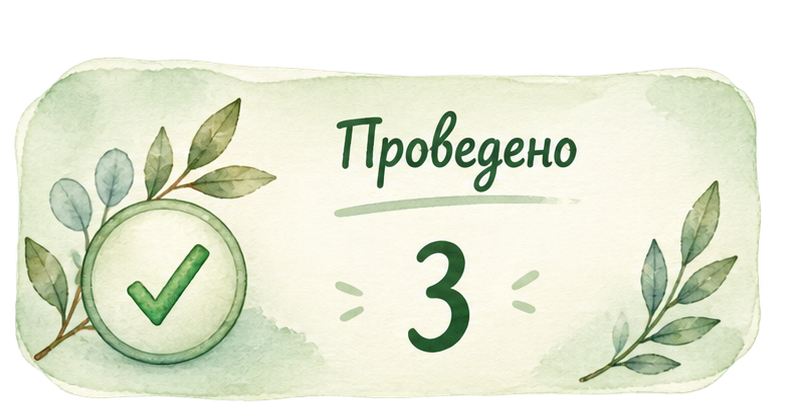
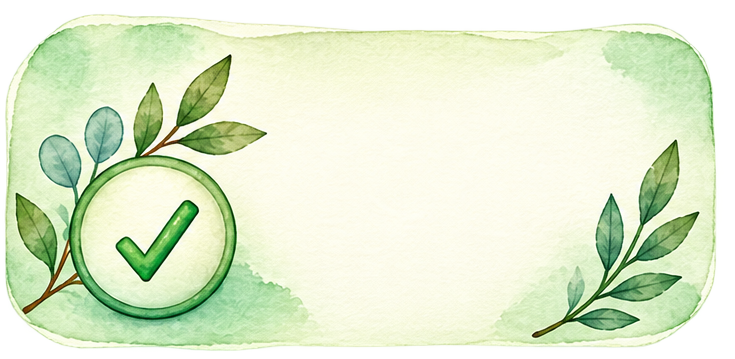
Use clean statistic card artwork

diff --git a/app/globals.css b/app/globals.css
@@ -546,3 +546,54 @@ h1 { font-size:35px; font-weight:600; }
   .stat-card strong{font-size:25px}
   .stat-card>.stat-icon{display:none}
 }
+
+/* Typography for the clean, text-free watercolor cards */
+.stat-card::before{display:none}
+.stat-card>div{
+  right:4%;
+  width:57%;
+  filter:none!important;
+}
+.stat-card p{
+  position:relative;
+  display:inline-block;
+  max-width:100%;
+  margin:0 0 13px;
+  padding:0 4px 7px;
+  color:#55307d;
+  font:600 clamp(14px,1.22vw,20px)/1.05 var(--font-cormorant),serif;
+  letter-spacing:.1px;
+}
+.stat-card p::after{
+  content:"";
+  position:absolute;
+  left:9%;
+  right:9%;
+  bottom:0;
+  height:4px;
+  border-radius:50%;
+  background:currentColor;
+  opacity:.22;
+  transform:rotate(-1deg) scaleY(.65);
+}
+.stat-card strong{
+  color:#54237c;
+  font:700 clamp(31px,2.7vw,45px)/.9 var(--font-cormorant),serif;
+  letter-spacing:.4px;
+  text-shadow:0 1px rgba(255,255,255,.7);
+}
+.stat-card.sage p,.stat-card.sage strong{color:#27643d}
+.stat-card.peach p,.stat-card.peach strong{color:#a84310}
+.stat-card.blue p,.stat-card.blue strong{color:#234a8c}
+.stat-card>.stat-icon{display:none}
+@media(max-width:1050px){
+  .stat-card p{font-size:19px}.stat-card strong{font-size:43px}
+}
+@media(max-width:760px){
+  .stat-card p{margin-bottom:10px;font-size:16px}.stat-card strong{font-size:35px}
+}
+@media(max-width:430px){
+  .stat-card>div{right:3%;width:59%}
+  .stat-card p{font-size:13px;margin-bottom:8px;padding-bottom:5px}
+  .stat-card strong{font-size:28px}
+}
